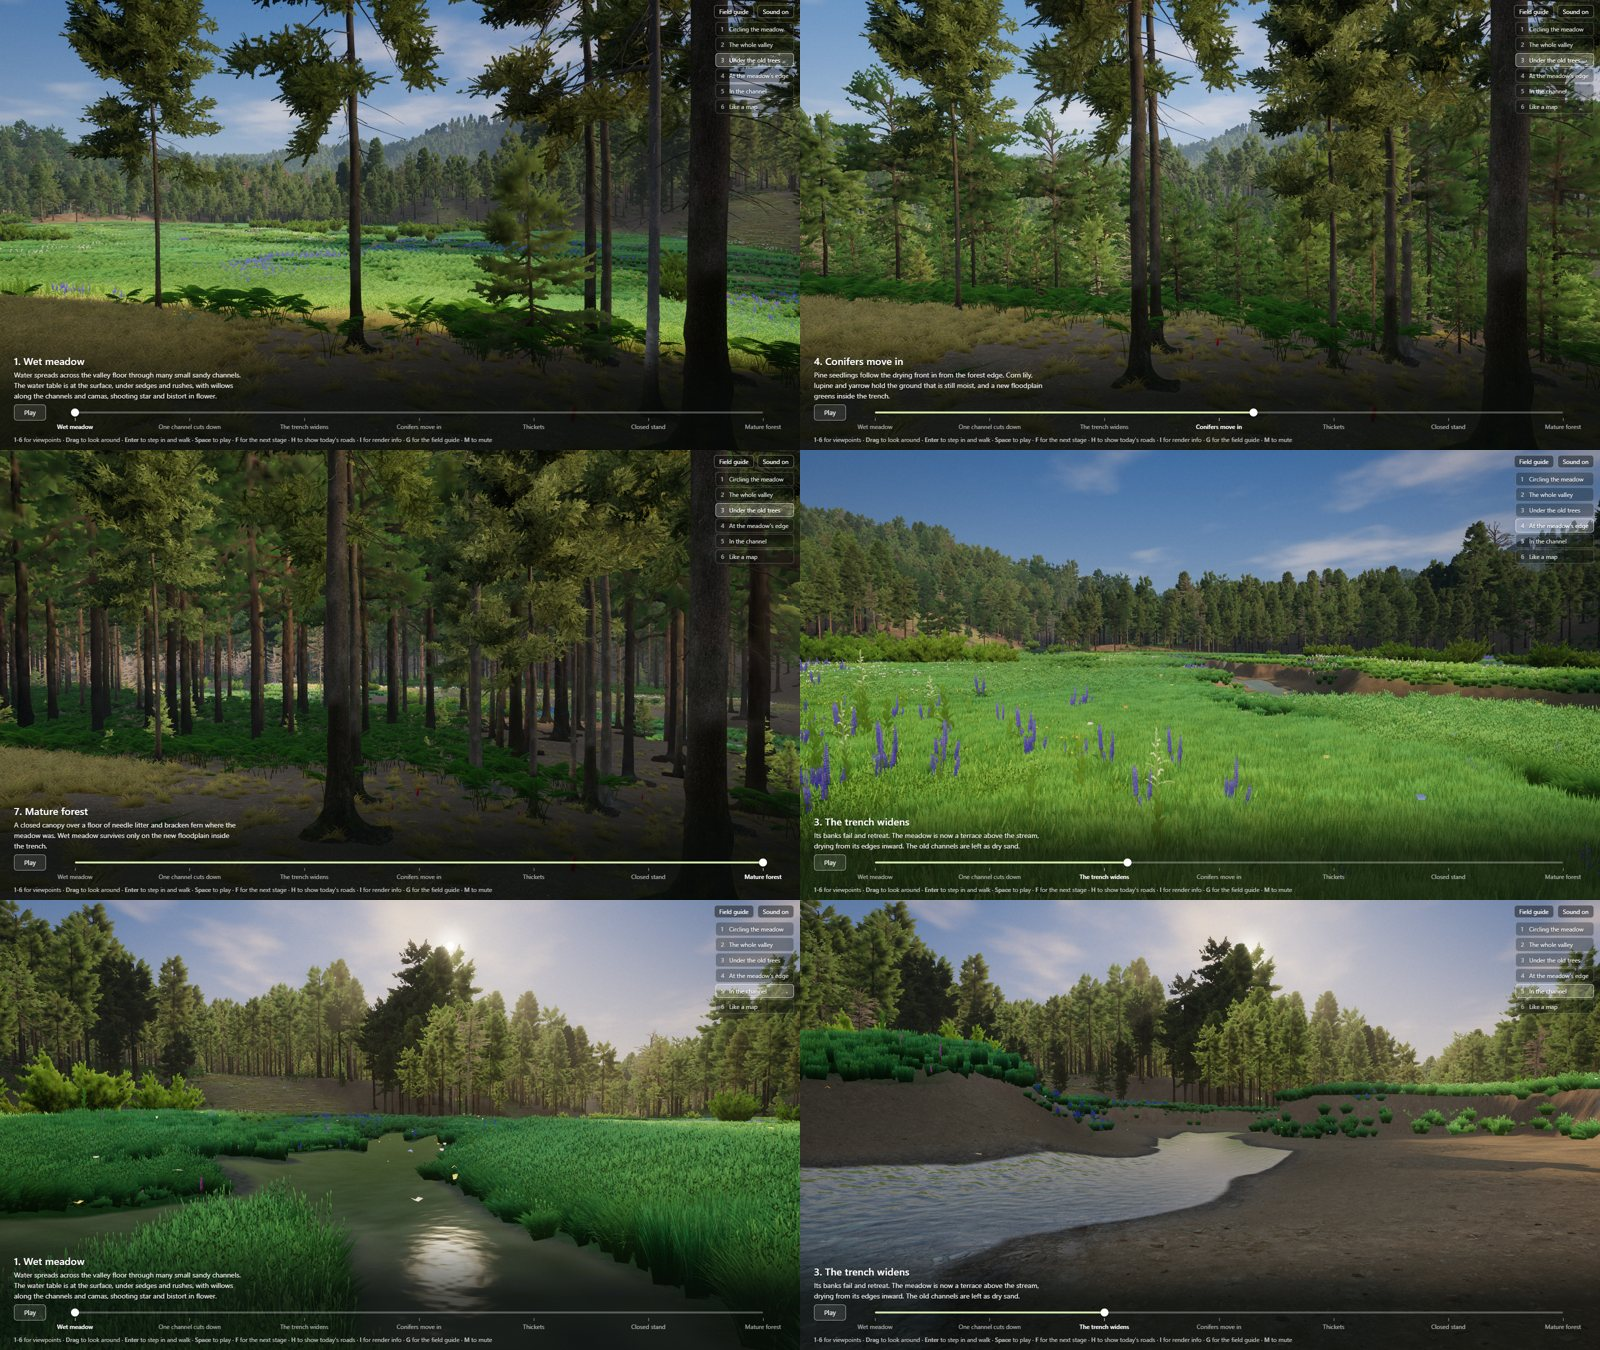
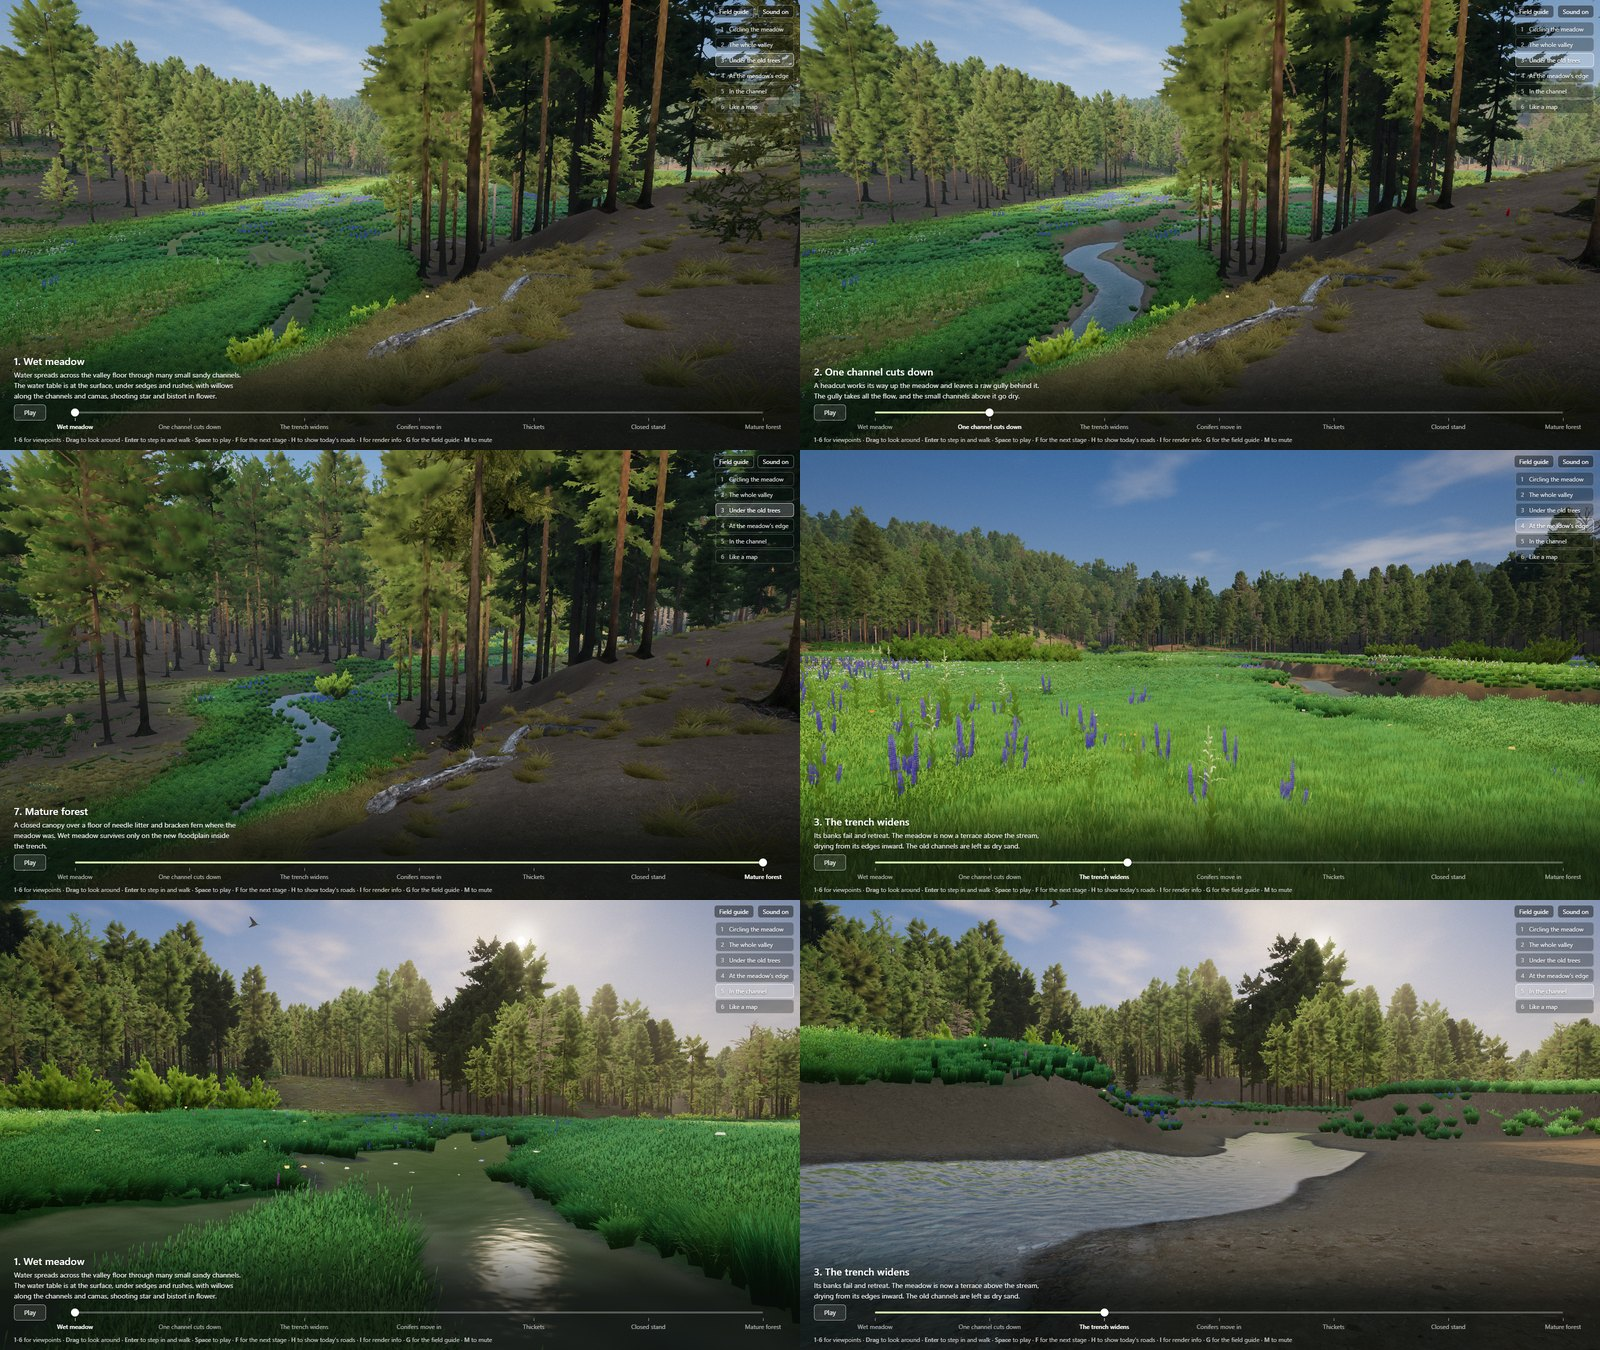
The view from under the old trees looks up the meadow at the gully
It looked across the meadow, where a fresh gully is a thin line. It now
stands in old forest on a rise at the foot of the meadow and looks along
it: the gully opens below and its headcut works away up the valley.

prep_terrain.py picks the spot: of the places in the forest off either
end of the meadow, the one that sees the most of the gully's floor past
the ground, the plants on it and the trees, with old trees around it and
none in its face. A viewpoint can now give a fixed angle below level, so
its aim holds still while the ground it looks at is cut away.

diff --git a/src/main.js b/src/main.js
@@ -501,6 +501,8 @@ function valleyPose(u, position, aim) {
 const EYE = 1.7;
 function standing(spot, eye = EYE, lookHeight = 1.0) {
   const x = spot.x + coreOrigin.x, z = spot.z + coreOrigin.y, lx = spot.lookX + coreOrigin.x, lz = spot.lookZ + coreOrigin.y;
+  // A spot can say how far below level it looks (degrees). Its aim then holds still while the ground out there is cut away.
+  const drop = spot.pitch === undefined ? null : Math.hypot(lx - x, lz - z) * Math.tan(spot.pitch * Math.PI / 180);
   let y = null;
   return (u, position, aim, dt = 0) => {
     // The ground can drop away under this spot (the channel cutting down); the eye follows it down, not at once.
@@ -508,7 +510,7 @@ function standing(spot, eye = EYE, lookHeight = 1.0) {
     y = y === null || dt === 0 ? target : y + (target - y) * (1 - Math.exp(-dt * 2.5));
     position.set(x, y, z);
     const glance = 0.16 * Math.sin(shared.uTime.value * 0.11), c = Math.cos(glance), s = Math.sin(glance);
-    aim.set(x + (lx - x) * c - (lz - z) * s, groundAt(lx, lz) + lookHeight, z + (lx - x) * s + (lz - z) * c);
+    aim.set(x + (lx - x) * c - (lz - z) * s, drop === null ? groundAt(lx, lz) + lookHeight : y - drop, z + (lx - x) * s + (lz - z) * c);
   };
 }
 // A fixed, map-like view of the meadow from the south, north at the top. Not

diff --git a/tools/prep_terrain.py b/tools/prep_terrain.py
@@ -832,24 +832,85 @@ while d < 70 and fill[int(cr + d * ps), int(cc + d * pe)] > 0.05:
 d += 5.0
 rim_view = {"x": float(cc - c0 + d * pe), "z": float(cr - r0 + d * ps),
             "lookX": float(cc - c0 - 26 * fe - 6 * pe), "lookZ": float(cr - r0 - 26 * fs - 6 * ps)}
-# Under the old trees: a dozen metres back from the meadow's edge, among
-# standing forest, looking out across the meadow toward the low sun, so the
-# trunks stand dark against it.
+# Under the old trees: in old forest on higher ground off one end of the meadow,
+# looking along it. From the side a fresh gully is a thin line in the grass; its
+# floor shows only to an eye that looks down its length. So, of the spots in the
+# forest near the line of the meadow's long axis, this is the one that sees the
+# most of the gully's floor (past the ground, the plants on it and the trees in
+# the way), has old trees close around it and none in its face. The headcut is
+# then watched working its way up (or down) the meadow, not across the view.
+run = chan & (fill > 0.8) & (np.hypot(np.arange(H)[:, None] - vrow, np.arange(W)[None, :] - vcol) < 2 * ORBIT_R)
+lab, _ = ndi.label(ndi.binary_dilation(run, iterations=2))
+pr, pc = np.nonzero(run & (lab == lab[cr, cc]))                    # the channel through this meadow
+keep = np.argsort(pc + 1e-3 * pr)[::2]
+pr, pc = pr[keep], pc[keep]
+mid = np.array([pr.mean(), pc.mean()])
+axis = np.linalg.svd(np.c_[pr, pc] - mid)[2][0]                      # the meadow's long axis (rows, columns)
+slot = healed + fill * sstep(bank_dist, SLOT, SLOT + 1.6)            # the ground just after the headcut has passed everywhere
+cover = np.where(bank_dist < SLOT + 1.6, 0.0, np.where(upland, 1.0, 0.6))   # what stands on it, metres: ferns and brush under the trees, the meadow's sward, nothing in the fresh gully
+g_r, g_c, g_hmax, g_birth, g_death = (np.concatenate([g[k] for g in groups]) for k in ("r", "c", "hmax", "birth", "death"))
+handy = np.hypot(g_r - mid[0], g_c - mid[1]) < 3 * ORBIT_R
+g_r, g_c, g_hmax, g_birth, g_death = (a[handy] for a in (g_r, g_c, g_hmax, g_birth, g_death))
+g_tall = tree_height(g_hmax, g_birth, g_death, 2.5)                  # the trees as they stand while the trench is cutting and widening
+g_old = (tree_height(g_hmax, g_birth, g_death, 0.0) > 22) & (g_death > 2.5)
+g_base = filled[g_r.astype(int), g_c.astype(int)]
+VIEW_EYE = 1.7
+
+
+def floor_seen(er, ec):
+    """Which of the gully's floor points can be seen from standing height at a
+    cell: the line to each clears the ground and the plants on it, and no tree
+    stands in it (a trunk below its crown, the crown's width above)."""
+    e = filled[er, ec] + VIEW_EYE
+    d = np.hypot(pr - er, pc - ec)
+    k = np.arange(1, int(d.max()) + 1)[None, :]                                       # a sample each metre of the way to each point
+    t = k / np.maximum(d[:, None], 1e-6)
+    on = (t < 1 - 1.5 / np.maximum(d[:, None], 1.6)) & (k > 2)
+    tt = np.minimum(t, 1)
+    rows, cols = (er + 0.5 + (pr[:, None] - er) * tt).astype(int), (ec + 0.5 + (pc[:, None] - ec) * tt).astype(int)
+    aim = slot[pr, pc] + 0.3
+    ok = np.all(~on | (e + (aim[:, None] - e) * tt > slot[rows, cols] + cover[rows, cols]), axis=1) & (d > 8)
+    near_t = (np.hypot(g_r - er - 0.5, g_c - ec - 0.5) < d.max()) & (g_tall > 3)
+    tr_, tc_, th, tb = g_r[near_t] - er - 0.5, g_c[near_t] - ec - 0.5, g_tall[near_t], g_base[near_t]
+    for i in np.nonzero(ok)[0]:
+        ur, uc = (pr[i] - er) / d[i], (pc[i] - ec) / d[i]
+        along, side = tr_ * ur + tc_ * uc, np.abs(tr_ * uc - tc_ * ur)
+        ray = e + (aim[i] - e) * np.clip(along / d[i], 0, 1)
+        width = np.where(ray < tb + 0.4 * th, 0.5, np.where(ray < tb + th, 0.13 * th * np.clip((tb + th - ray) / (0.6 * th), 0.15, 1), -1.0))
+        ok[i] = not np.any((along > 1) & (along < d[i]) & (side < width))
+    return ok
+
+
 best = None
-for bearing in np.radians(np.arange(0, 360, 4)):
-    be, bs = np.sin(bearing), -np.cos(bearing)
-    for dist in np.arange(30, 200, 2.0):
-        rr, qq = int(vrow + dist * bs), int(vcol + dist * be)
-        if not (0 <= rr < H and 0 <= qq < W) or not valid[rr, qq]:
-            break
-        if upland[rr, qq] and meadow_near[rr, qq] >= 12 and stems[rr, qq] > 0.25 and stand_h[rr, qq] > 20:
-            facing = -(be * sun_e + bs * sun_s)                       # 1 when looking back at the meadow is looking at the sun
-            value = facing - 0.004 * dist - 0.03 * slope_deg[rr, qq]
-            if best is None or value > best[0]:
-                best = (value, rr, qq)
-            break
-_, tr_, tc_ = best
-canopy_view = {"x": float(tc_ - c0 + 0.5), "z": float(tr_ - r0 + 0.5), "lookX": float(ox), "lookZ": float(oz)}
+spots = upland & valid & (meadow_near >= 6) & (meadow_near <= 60) & (slope_deg < 22) & (road_soft < 0.1) & (fill < 0.05)
+spots[1::2, :] = False
+spots[:, 1::2] = False
+for er, ec in zip(*np.nonzero(spots)):
+    rel = np.array([er, ec]) - mid
+    if np.hypot(*rel) > 2.5 * ORBIT_R or abs(rel @ np.array([-axis[1], axis[0]])) > np.tan(np.radians(16)) * abs(rel @ axis):
+        continue                                                      # not off an end of the meadow
+    seen = floor_seen(er, ec)
+    if seen.sum() < 3:
+        continue
+    off_r, off_c = g_r - er - 0.5, g_c - ec - 0.5
+    dist = np.hypot(off_r, off_c)
+    old = int((g_old & (dist > 2.2) & (dist < 12)).sum())
+    swing = np.angle(np.mean(np.exp(1j * np.arctan2(pc[seen] - ec, pr[seen] - er))))                  # the middle way of the floor it sees
+    aside = np.abs(np.angle(np.exp(1j * (np.arctan2(off_c, off_r) - swing))))
+    in_face = int(((dist > 2.2) & (dist < 7) & (aside < np.radians(30)) & (g_tall > 1.5)).sum())      # trees right in front of the camera
+    value = seen.sum() * (0.5 + 0.5 * min(old, 6) / 6) * 0.5 ** in_face
+    if best is None or value > best[0]:
+        best = (value, er, ec, seen, old, swing)
+_, tr_, tc_, seen, old, swing = best
+# Looking that middle way, and down enough that the nearest of the floor stands
+# clear of the caption along the bottom of the page.
+d = np.hypot(pr[seen] - tr_, pc[seen] - tc_)
+drop = np.degrees(np.arctan2(filled[tr_, tc_] + VIEW_EYE - slot[pr[seen], pc[seen]], d))
+pitch = float(np.clip(drop.max() - 11.0, 3.0, 14.0))
+canopy_view = {"x": float(tc_ - c0 + 0.5), "z": float(tr_ - r0 + 0.5), "lookX": float(tc_ - c0 + 0.5 + 90 * np.sin(swing)),
+               "lookZ": float(tr_ - r0 + 0.5 + 90 * np.cos(swing)), "pitch": round(pitch, 1)}
+print(f"the view from under the old trees: {int(seen.sum())} of {pr.size} points along the gully's floor in sight, {old} old trees within 12 m, "
+      f"{meadow_near[tr_, tc_]:.0f} m from the meadow and {filled[tr_, tc_] - filled[pr, pc].mean():.1f} m above it, looking {pitch:.0f} degrees down", flush=True)
 views = {"channel": channel_view, "rim": rim_view, "canopy": canopy_view, "plan": {"x": float(ox), "z": float(oz), "height": 250.0}}
 print("viewpoints: " + "; ".join(f"{k} at {v['x']:.0f}, {v['z']:.0f}" for k, v in views.items()), flush=True)
 

diff --git a/README.md b/README.md
@@ -37,7 +37,7 @@ WebGL 2; about 20 MB to load).
 
 ![All seven stages from the circling view](media/stages.jpg)
 
-![From under the old trees at stages 1, 5 and 7; from the meadow's edge; from in the channel before and after it cuts down](media/viewpoints.jpg)
+![From under the old trees at stages 1, 2 and 7; from the meadow's edge; from in the channel before and after it cuts down](media/viewpoints.jpg)
 
 ![The landscape view: every meadow in the window, and the streams that join them](media/landscape.jpg)
 
@@ -96,13 +96,18 @@ The six viewpoints:
 |---|---|---|
 | 1 | Circling the meadow | the whole sequence in one place, from above the treetops |
 | 2 | The whole valley | every meadow in the window, and the streams that join them |
-| 3 | Under the old trees | from the forest at the meadow's edge, looking out: the open meadow fills with trees |
+| 3 | Under the old trees | from old forest on a rise at the foot of the meadow, looking up its length: the gully opens below and its headcut works away up the valley, then the open meadow fills with trees |
 | 4 | At the meadow's edge | from the bank the trench will have, looking across it |
 | 5 | In the channel | at the water, as the headcut comes and the bed drops away |
 | 6 | Like a map | fixed, from the south, north at the top |
 
 Between the views in the air the camera flies; to and from the ground it cuts.
 A visit starts at 3, under the old trees, where the change is most striking.
+That spot is chosen by `prep_terrain.py`, not by hand: of the places in the
+forest off either end of the meadow, the one that sees the most of the gully's
+floor past the ground, the plants and the trees, with old trees around it. A
+fresh gully seen from the side is a thin line; its floor shows only to an eye
+looking along it.
 
 URL options: `&stage=0..6` (fractions allowed), `?u=0.3` (position around the
 circle, paused, for stills), `&orbit=x,z` (circle another spot, metres from the
